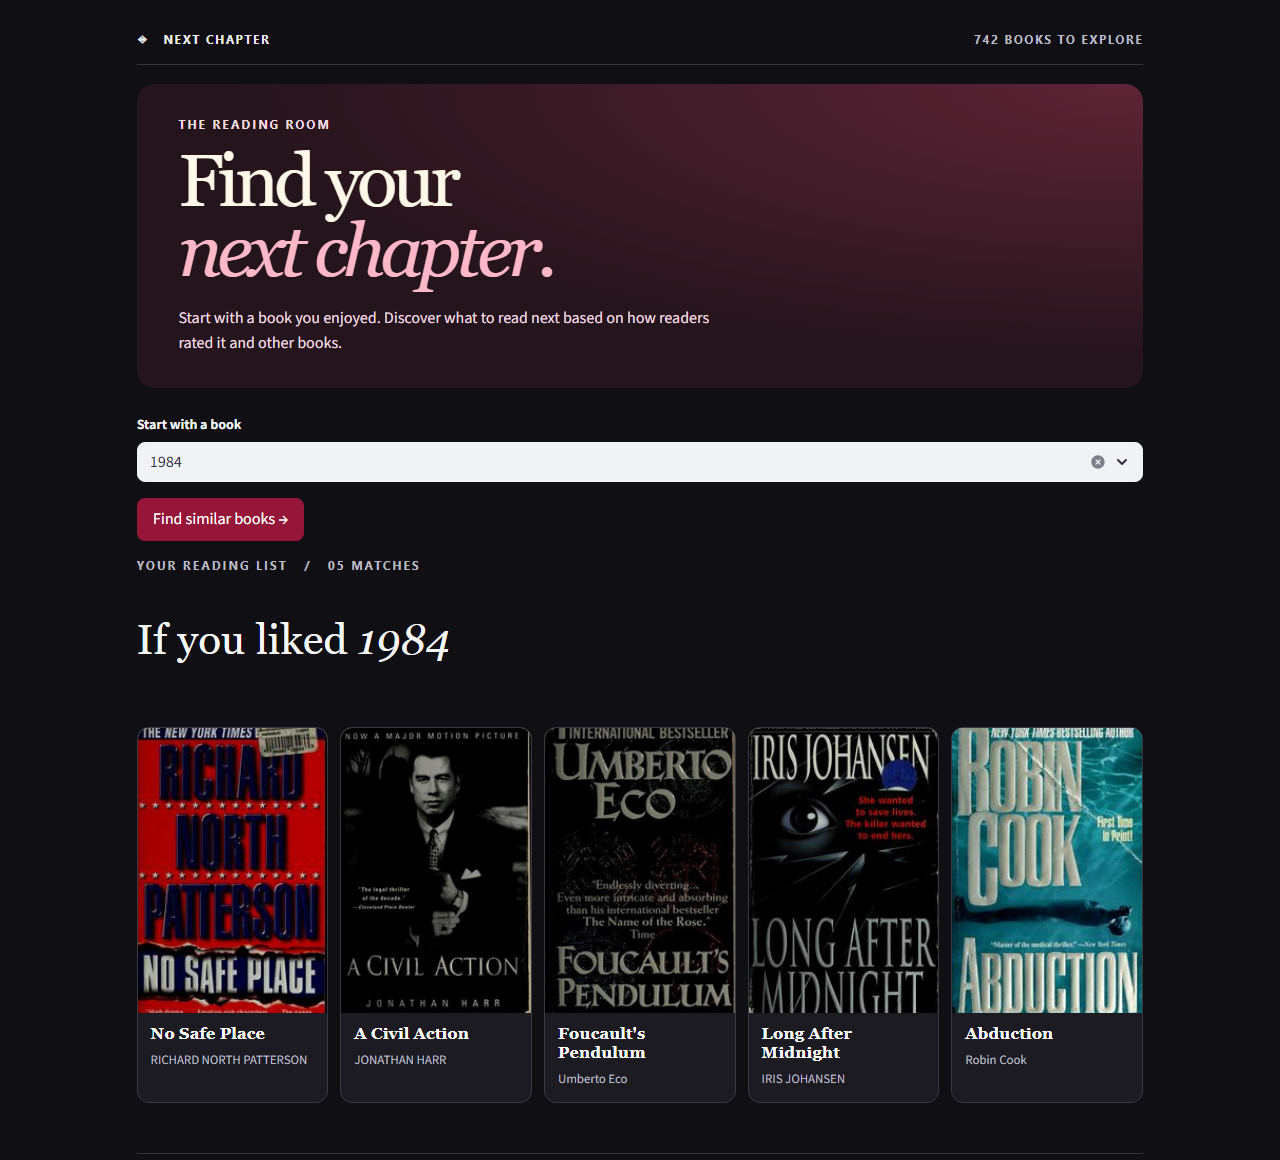
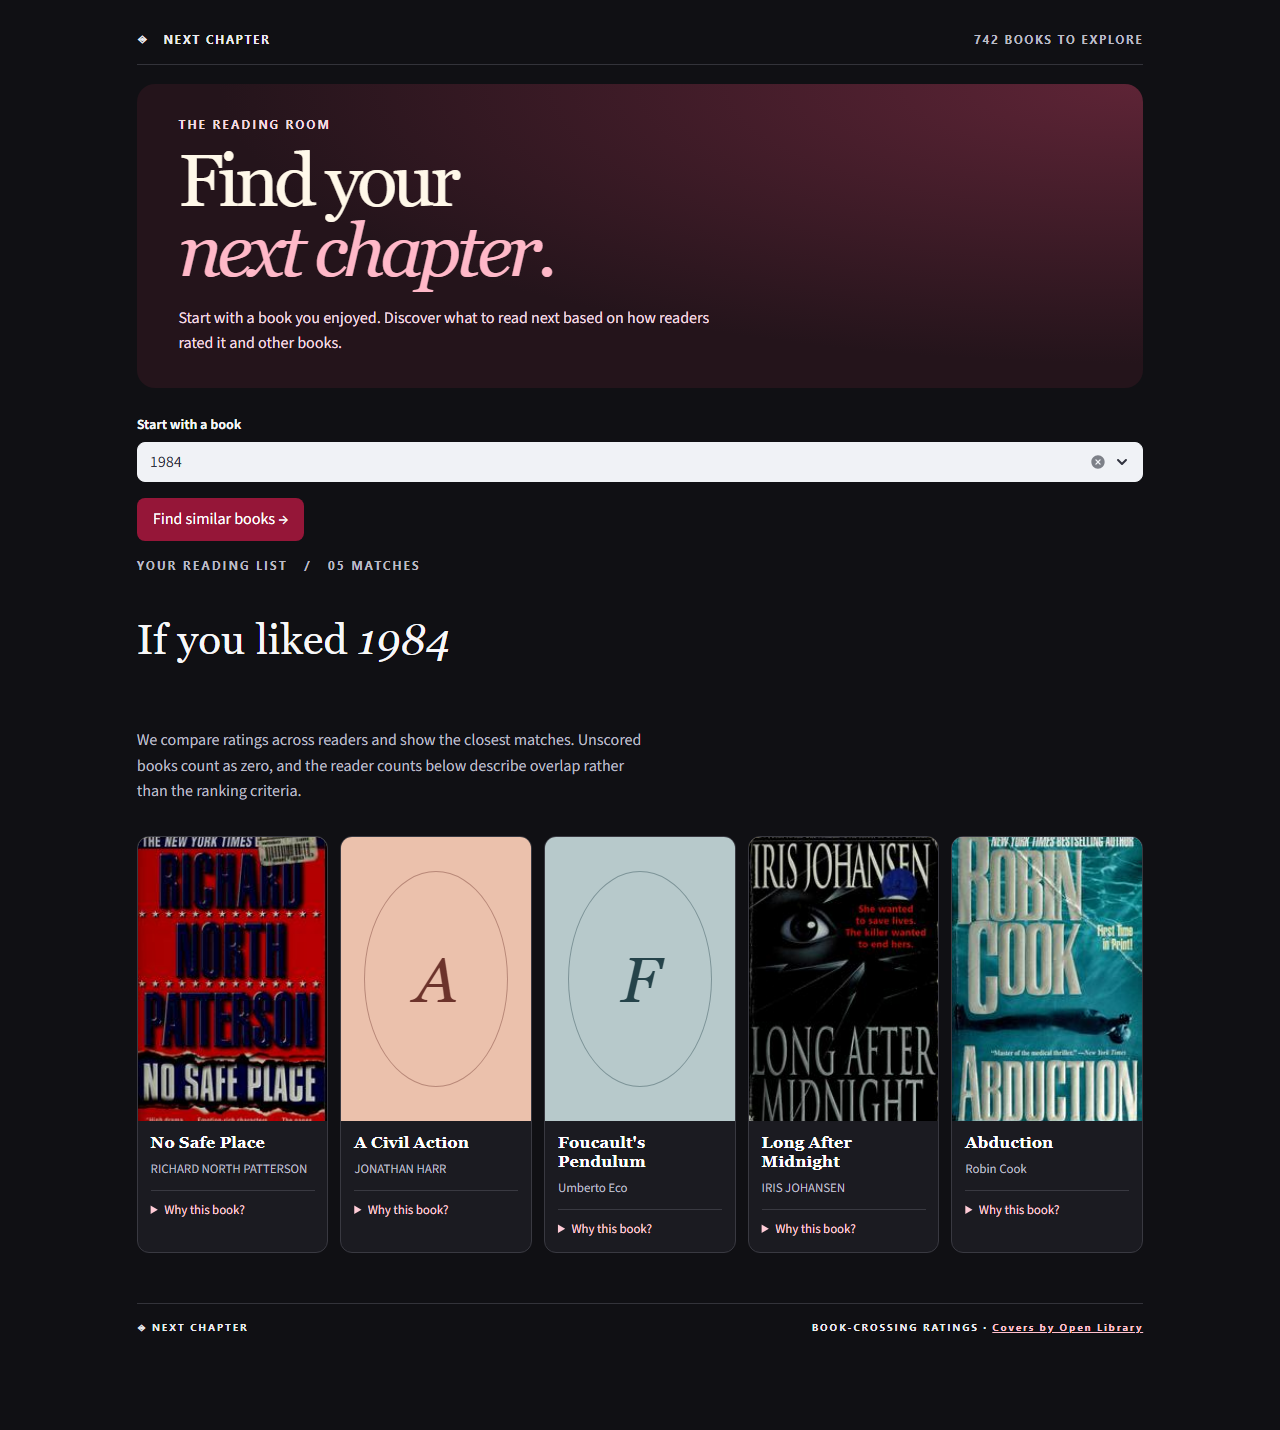
Explain why each book is recommended

Changed region(s): [[0.0938, 0.0, 0.9062, 0.931], [0.125, 0.9931, 0.875, 1.0]]

diff --git a/styles.css b/styles.css
@@ -50,3 +50,8 @@ ol.book-grid {display:grid;grid-auto-flow:column;grid-auto-columns:calc((100% - 
   .hero {padding:1.6rem 1.2rem}
   ol.book-grid {grid-auto-columns:42%}
 }
+
+.ranking-note {color:#bcbcc5;max-width:65ch}
+.book-reason {border-top:1px solid #393941;margin-top:.7rem;padding-top:.55rem}
+.book-reason summary {color:#ffccd7;font-size:.8rem;cursor:pointer}
+.book-reason p {margin:.4rem 0 0;line-height:1.45}

diff --git a/app.py b/app.py
@@ -24,7 +24,7 @@ def load_catalog():
     return catalog, dict(zip(preferred["title"], preferred["ISBN"]))
 
 
-def render_cards(titles, catalog, isbns):
+def render_cards(titles, catalog, isbns, seed=None):
     cards = []
     for rank, title in enumerate(titles, 1):
         safe_title = escape(title)
@@ -35,13 +35,21 @@ def render_cards(titles, catalog, isbns):
         if isbn:
             url = f"https://covers.openlibrary.org/b/isbn/{isbn}-M.jpg?default=false"
             cover = f'<span class="cover-image" style="background-image:url({url})"></span>'
+        reason = ""
+        if seed is not None:
+            count = catalog.shared_explicit_ratings(seed, title)
+            reader = "reader" if count == 1 else "readers"
+            overlap = f"{count:,} {reader} gave both books a score." if count else "No readers gave both books a score in this dataset."
+            reason = f"""<details class="book-reason"><summary>Why this book?</summary>
+                <p>Its rating pattern was among the five closest to your chosen book.
+                {overlap}</p></details>"""
         cards.append(f"""
             <li class="book-card">
                 <div class="book-art tone-{(rank - 1) % 5}" aria-hidden="true">
                     <span class="book-initial">{initial}</span>
                     {cover}
                 </div>
-                <div class="book-copy"><h3>{safe_title}</h3><p>{author}</p></div>
+                <div class="book-copy"><h3>{safe_title}</h3><p>{author}</p>{reason}</div>
             </li>""")
     st.html('<ol class="book-grid">' + "".join(cards) + "</ol>")
 
@@ -80,7 +88,8 @@ if seed:
         <h2 class="section-title">If you liked <em>{escape(seed)}</em></h2>
     """)
     if matches:
-        render_cards(matches, catalog, isbns)
+        st.html('<p class="ranking-note">We compare ratings across readers and show the closest matches. Unscored books count as zero, and the reader counts below describe overlap rather than the ranking criteria.</p>')
+        render_cards(matches, catalog, isbns, seed=seed)
     else:
         st.info("There are no other books in this catalog.")
 else:

diff --git a/recommender.py b/recommender.py
@@ -11,6 +11,12 @@ class BookRecommender:
         self.authors = dict(zip(authors["title"], authors["author"]))
         self.model = NearestNeighbors(algorithm="brute").fit(self.vectors)
 
+    def shared_explicit_ratings(self, first, second):
+        """Count readers who gave both titles a positive rating."""
+        first_ratings = self.vectors[self.positions[first]]
+        second_ratings = self.vectors[self.positions[second]]
+        return int(((first_ratings > 0) & (second_ratings > 0)).sum())
+
     def recommend(self, title, limit=5):
         """Return at most limit distinct alternatives, nearest first."""
         if title not in self.positions:

diff --git a/README.md b/README.md
@@ -20,6 +20,8 @@ Discover your next read through an interactive Streamlit app that recommends boo
 | --- | --- | --- |
 | ![Recommendations for The Da Vinci Code](docs/images/05-another-book.png) | ![Reading list at mobile width](docs/images/06-mobile.png) | ![Prompt to choose a book](docs/images/02-empty-selection.png) |
 
+![Why this book explanation open beneath a recommendation](docs/images/07-why-this-book.png)
+
 ## Overview
 
 This project implements item-based collaborative filtering on Book-Crossing reader ratings. Each book is represented by its ratings across readers, and a nearest-neighbor model retrieves books with nearby rating vectors. The application uses a selected book as its starting point; it does not require an account or a personal reading history.
@@ -31,6 +33,7 @@ The repository includes the data exploration and training notebook, source datas
 - Search or select a title from the trained catalog of **742 books**.
 - Request **five book recommendations** with a single button.
 - Browse real book covers, titles, and authors in horizontal shelves that scroll on narrow screens.
+- Open **Why this book?** on any recommendation to see how it was matched and how many readers gave both titles an explicit score.
 - Run inference locally using the included catalog and ratings artifacts.
 - Inspect and reproduce data preparation and training in a Jupyter notebook.
 
